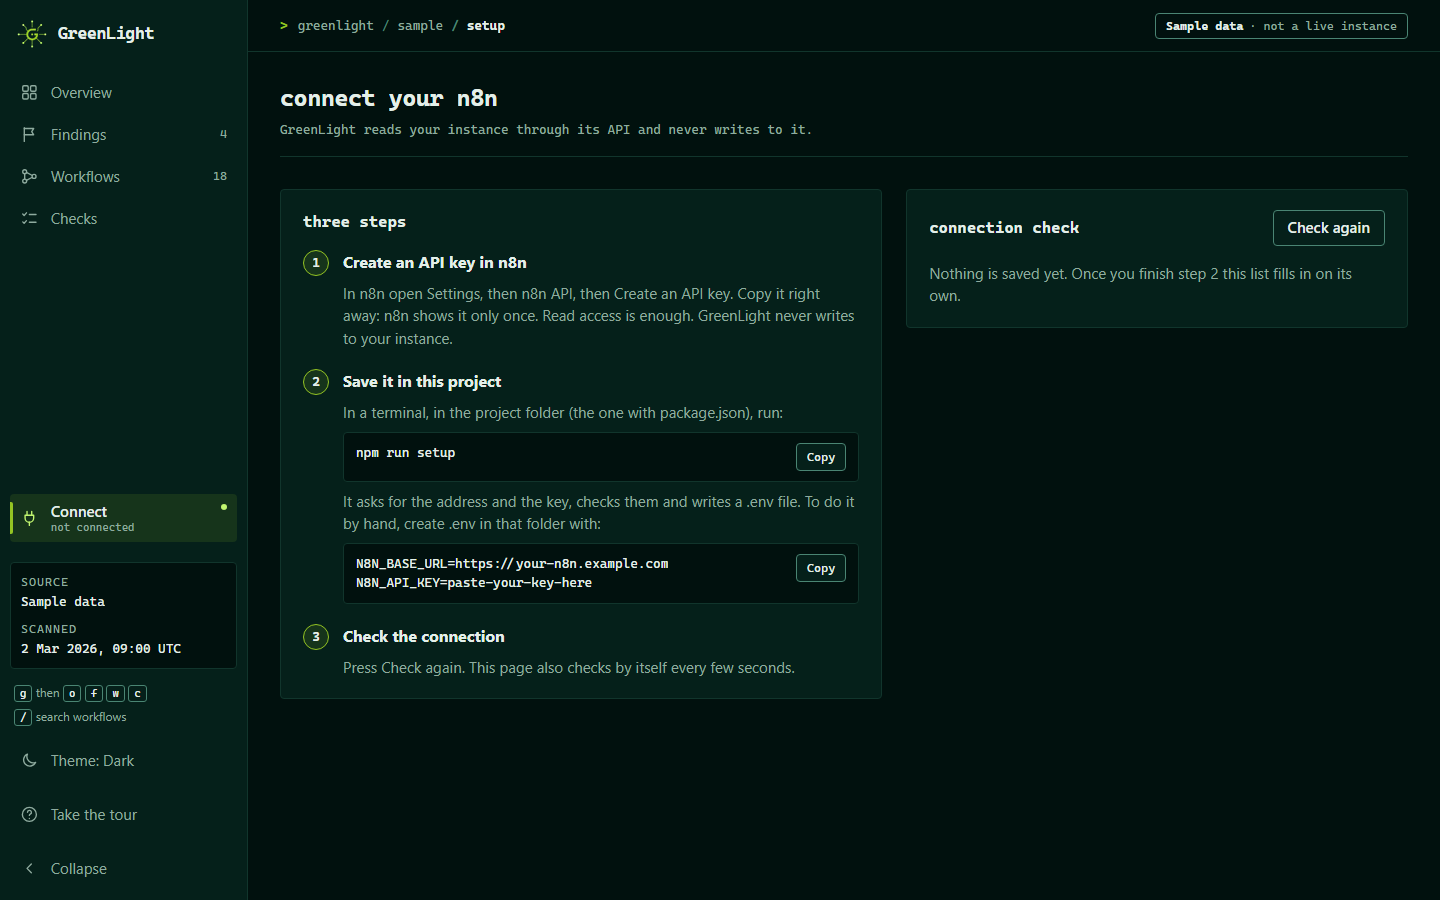
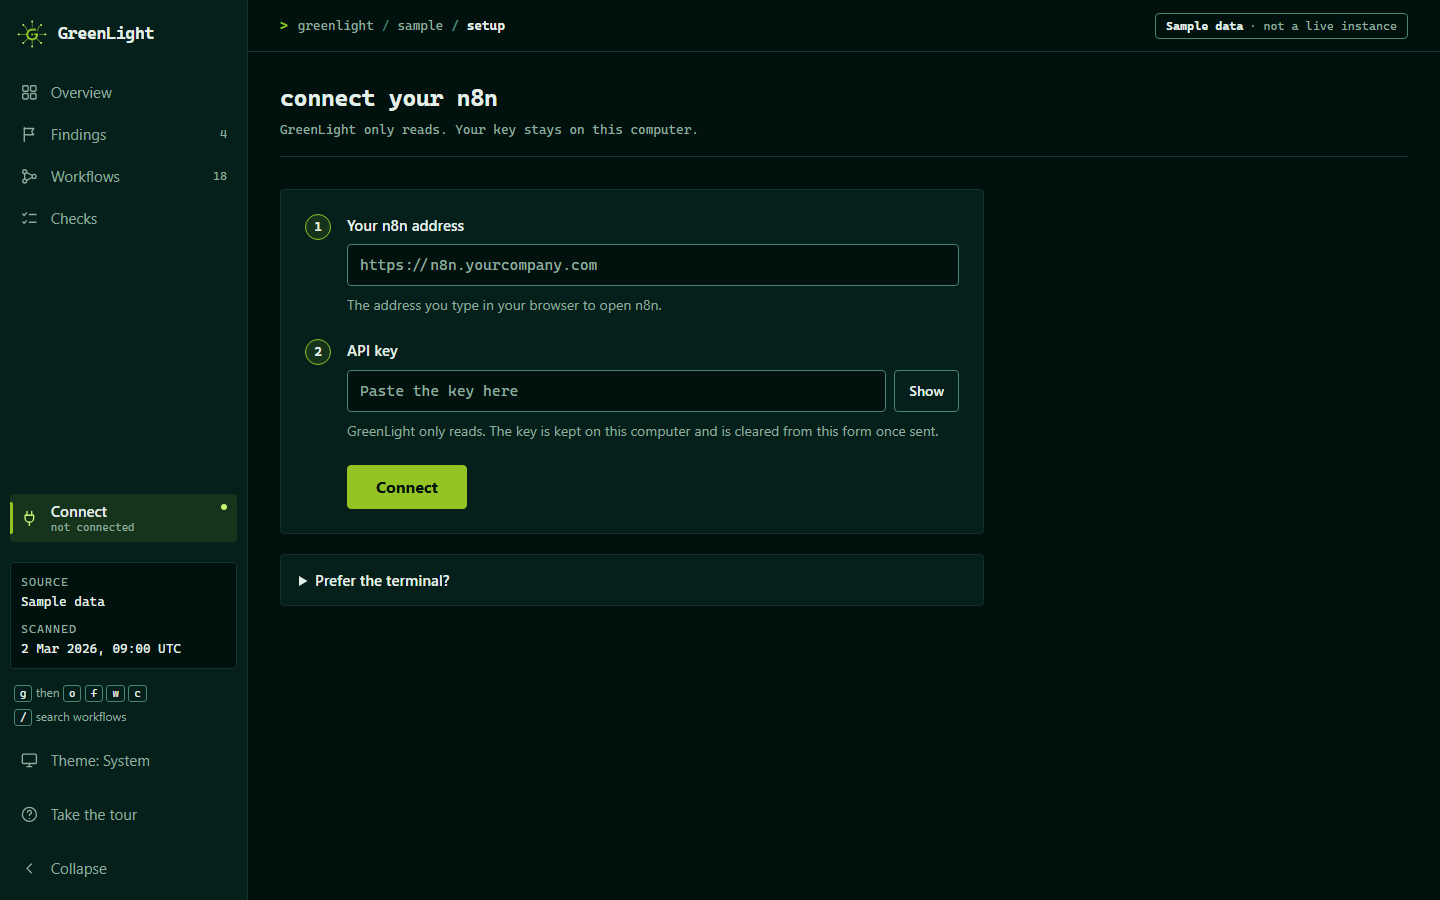
docs: lead the quick start with the dashboard and its connection form
The first path is now install, run the dashboard and press Connect your n8n,
with the requirements explained and a ZIP alternative to Git. The terminal
commands remain as the second path. The screenshot of the connection page is
refreshed and the security notes mention what the form writes.

diff --git a/README.md b/README.md
@@ -22,33 +22,27 @@ announce themselves.
 
 ## Quick start
 
-You need Node.js 22.12 or newer, and an n8n instance where you can create an API key.
+You need two things: **Node.js 22.12 or newer** (from [nodejs.org](https://nodejs.org); the button
+marked LTS is the right one) and **Git**, or the **Code, then Download ZIP** button on this page.
 
 ```bash
 git clone https://github.com/jsanchez542-hub/greenlight.git
 cd greenlight
 npm install
-npm run setup
+npm run panel
 ```
 
-`npm run setup` walks you through it. It tells you where to create the key (in n8n, Settings,
-then n8n API; read access is enough), asks for the address of your instance and the key, checks
-the connection step by step and saves the result to a `.env` file that git ignores. If something
-is wrong it says what, and what to do about it.
+`npm run panel` prepares the dashboard, starts it and opens it in your browser. The first time takes a
+minute or two. It starts with sample data, so you can look around straight away. If something else
+is using port 3000 it picks the next free one and says which.
 
-Then pick how you want to look:
+To see your own n8n, press **Connect your n8n**, type its address and an API key, and press
+**Connect**. In n8n the key is under Settings, then n8n API, and read access is enough. The key
+stays on this computer, in a `.env` file that git ignores. If something is wrong the page says what
+and how to fix it, and **Disconnect** undoes it.
 
-```bash
-npm run scan     # a report in the terminal
-npm run panel    # the dashboard, at http://127.0.0.1:3000
-npm run watch    # keep watching and get alerted when something new appears
-```
-
-If anything does not work, `npm run doctor` repeats the connection check and points at the step
-that fails.
-
-No instance at hand? `npm run example` prints a report for an invented one, and the dashboard
-shows the same sample data, clearly labelled, until you connect your own.
+Prefer the terminal? `npm run setup` asks the same two questions, `npm run scan` prints a report,
+and `npm run doctor` checks the connection step by step if something does not work.
 
 ## What it looks for
 
@@ -111,8 +105,8 @@ example can show every check at once. `npm run example` reproduces it from
 | --- | --- |
 | ![A finding with the numbers it rests on](docs/images/finding.png) | ![Every workflow, sortable and filterable](docs/images/workflows.png) |
 | Each finding shows the evidence it rests on and what to review. | Every workflow that was checked, with its state, trigger and last run. |
-| ![The first-run tour pointing at the four states](docs/images/tour.png) | ![The page that connects your n8n, with its three steps](docs/images/setup.png) |
-| A short tour the first time you open it. | **Connect your n8n**: three steps and a live connection check. |
+| ![The first-run tour pointing at the four states](docs/images/tour.png) | ![The page that connects your n8n: two fields and a button](docs/images/setup.png) |
+| A short tour the first time you open it. | **Connect your n8n**: an address, a key and one button. |
 | ![The light theme](docs/images/light.png) | <img src="docs/images/mobile.png" alt="The overview on a phone-sized screen" width="240"> |
 | A light and a dark theme, with a switch. | It works on a phone-sized screen too. |
 
@@ -120,8 +114,9 @@ example can show every check at once. `npm run example` reproduces it from
   and the exact defaults it uses.
 - **Live or sample.** With a configured instance it scans on its own and shows how old the data is.
   Without one it shows sample data, labelled as such.
-- **A first-run guide.** The first time you open it there is a short tour, and a **Connect your
-  n8n** page that runs the same step-by-step check as `npm run doctor`.
+- **A first-run guide.** The first time you open it there is a short tour, once. **Connect your n8n**
+  is a form with two fields: it runs the same step-by-step check as `npm run doctor` and saves the
+  connection for you, with no terminal.
 - **Light and dark.** A switch in the sidebar, and in the top bar on a phone, cycles System, Light
   and Dark and remembers the choice. System follows your operating system.
 - **It works on a phone-sized screen.** It needs a current browser: Chrome or Edge 123, Firefox 120
@@ -212,7 +207,7 @@ anywhere is the alert that `watch` posts to the webhook you configure.
 | `npm run doctor` | checks the connection step by step |
 | `npm run scan` | scans once and prints the report; add `-- --json` for structured output |
 | `npm run watch` | scans on a schedule and alerts on changes |
-| `npm run panel` | installs and starts the dashboard |
+| `npm run panel` | prepares and starts the dashboard, and opens it in the browser |
 | `npm run example` | prints the report for a synthetic instance |
 
 `scan` and `watch --once` exit with 0 when nothing is found, 1 when something is, and 2 when the

diff --git a/SECURITY.md b/SECURITY.md
@@ -31,6 +31,11 @@ think the impact is. It will be answered as soon as possible.
   that for people who accept the risk, and the connection check says so when it is on.
 - **It is never shown.** Reports, errors, the dashboard and its server log do not contain the key,
   and the tests look for it in every output.
+- **The dashboard can save the connection for you.** The connection form writes the address and the key
+  to `.env`, nothing else, and only when the check passes. The request has to come from the page itself
+  on this machine, is limited in size and in frequency, and a value that contains a line break is
+  refused so it cannot add settings of its own. The form never keeps the key, and it is not in the
+  browser, in the address bar or in any response.
 - **Files stay private.** `.env` and the file that remembers what `watch` reported are created
   readable only by their owner, on systems that support it.
 - **The alert webhook does not follow redirects**, because the alert text and the token would travel

diff --git a/CONTRIBUTING.md b/CONTRIBUTING.md
@@ -20,7 +20,7 @@ npm test
 | `npm run typecheck` | TypeScript without emitting |
 | `npm run build` | compiles to `dist/` |
 | `npm run example` | prints the report for the synthetic instance |
-| `npm run panel` | installs and starts the dashboard in `web/` |
+| `npm run panel` | prepares, starts and opens the dashboard in `web/` |
 
 The dashboard has its own project in `web/` with its own `lint`, `typecheck`, `test` and `build`.
 
